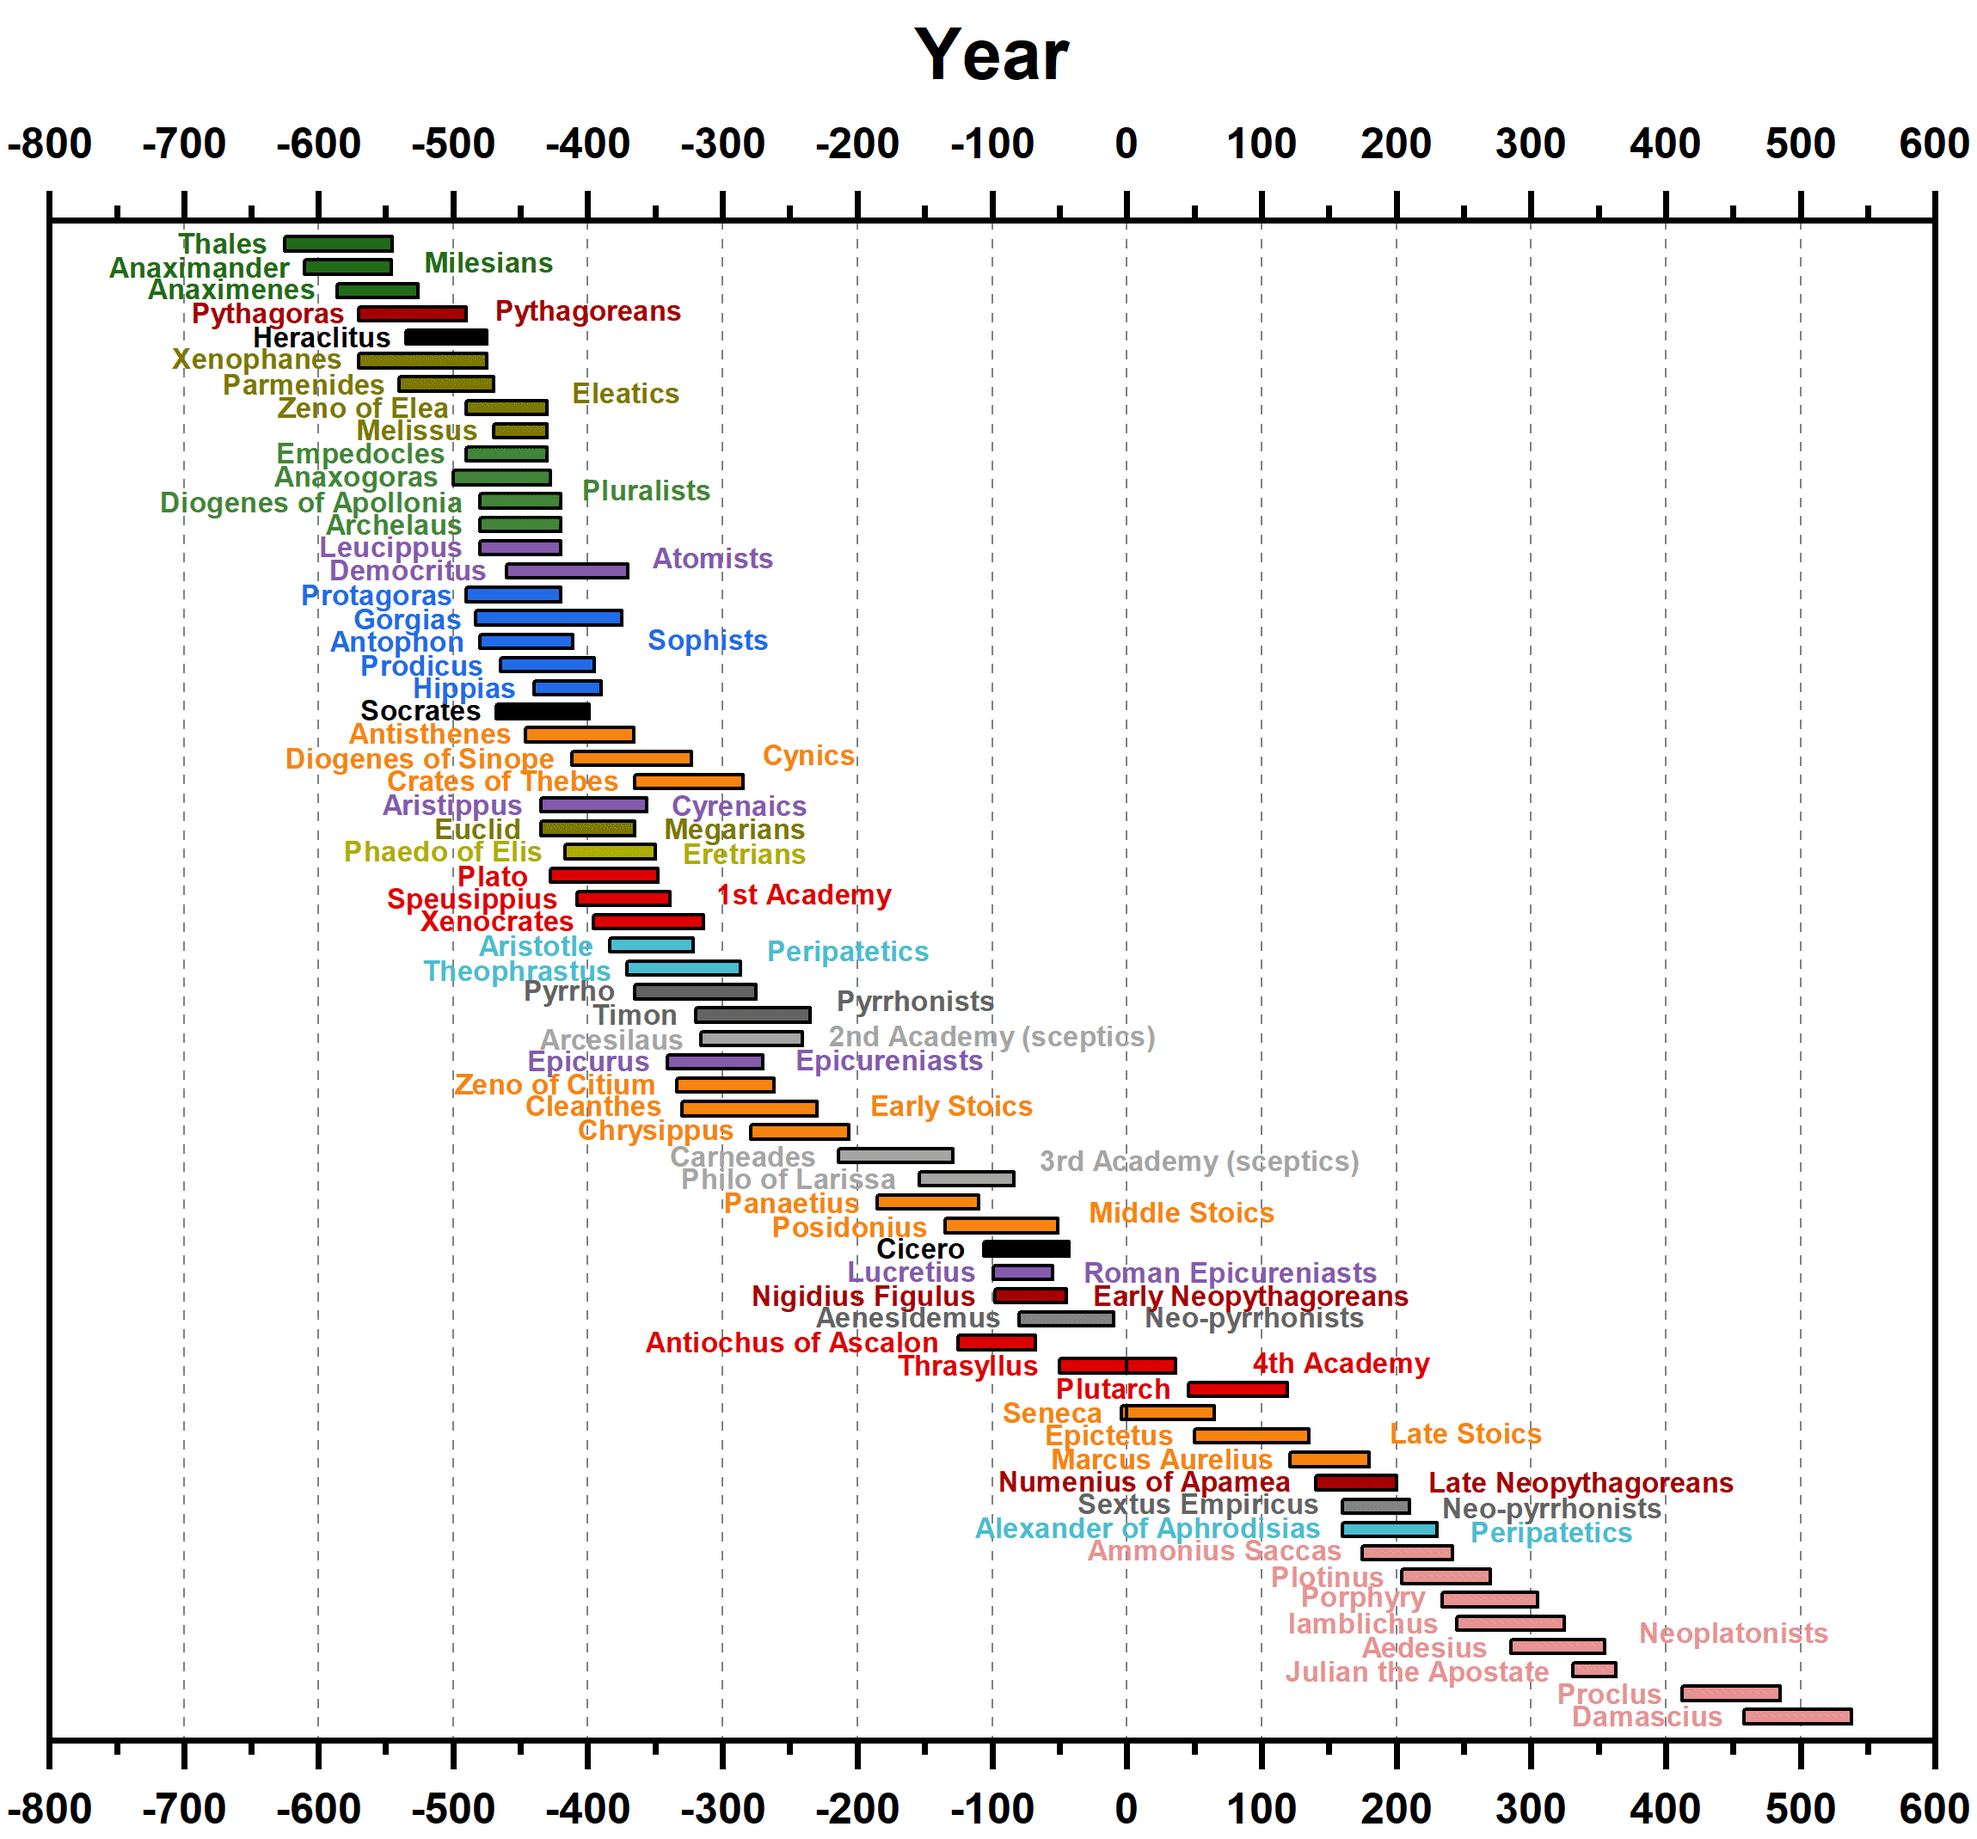
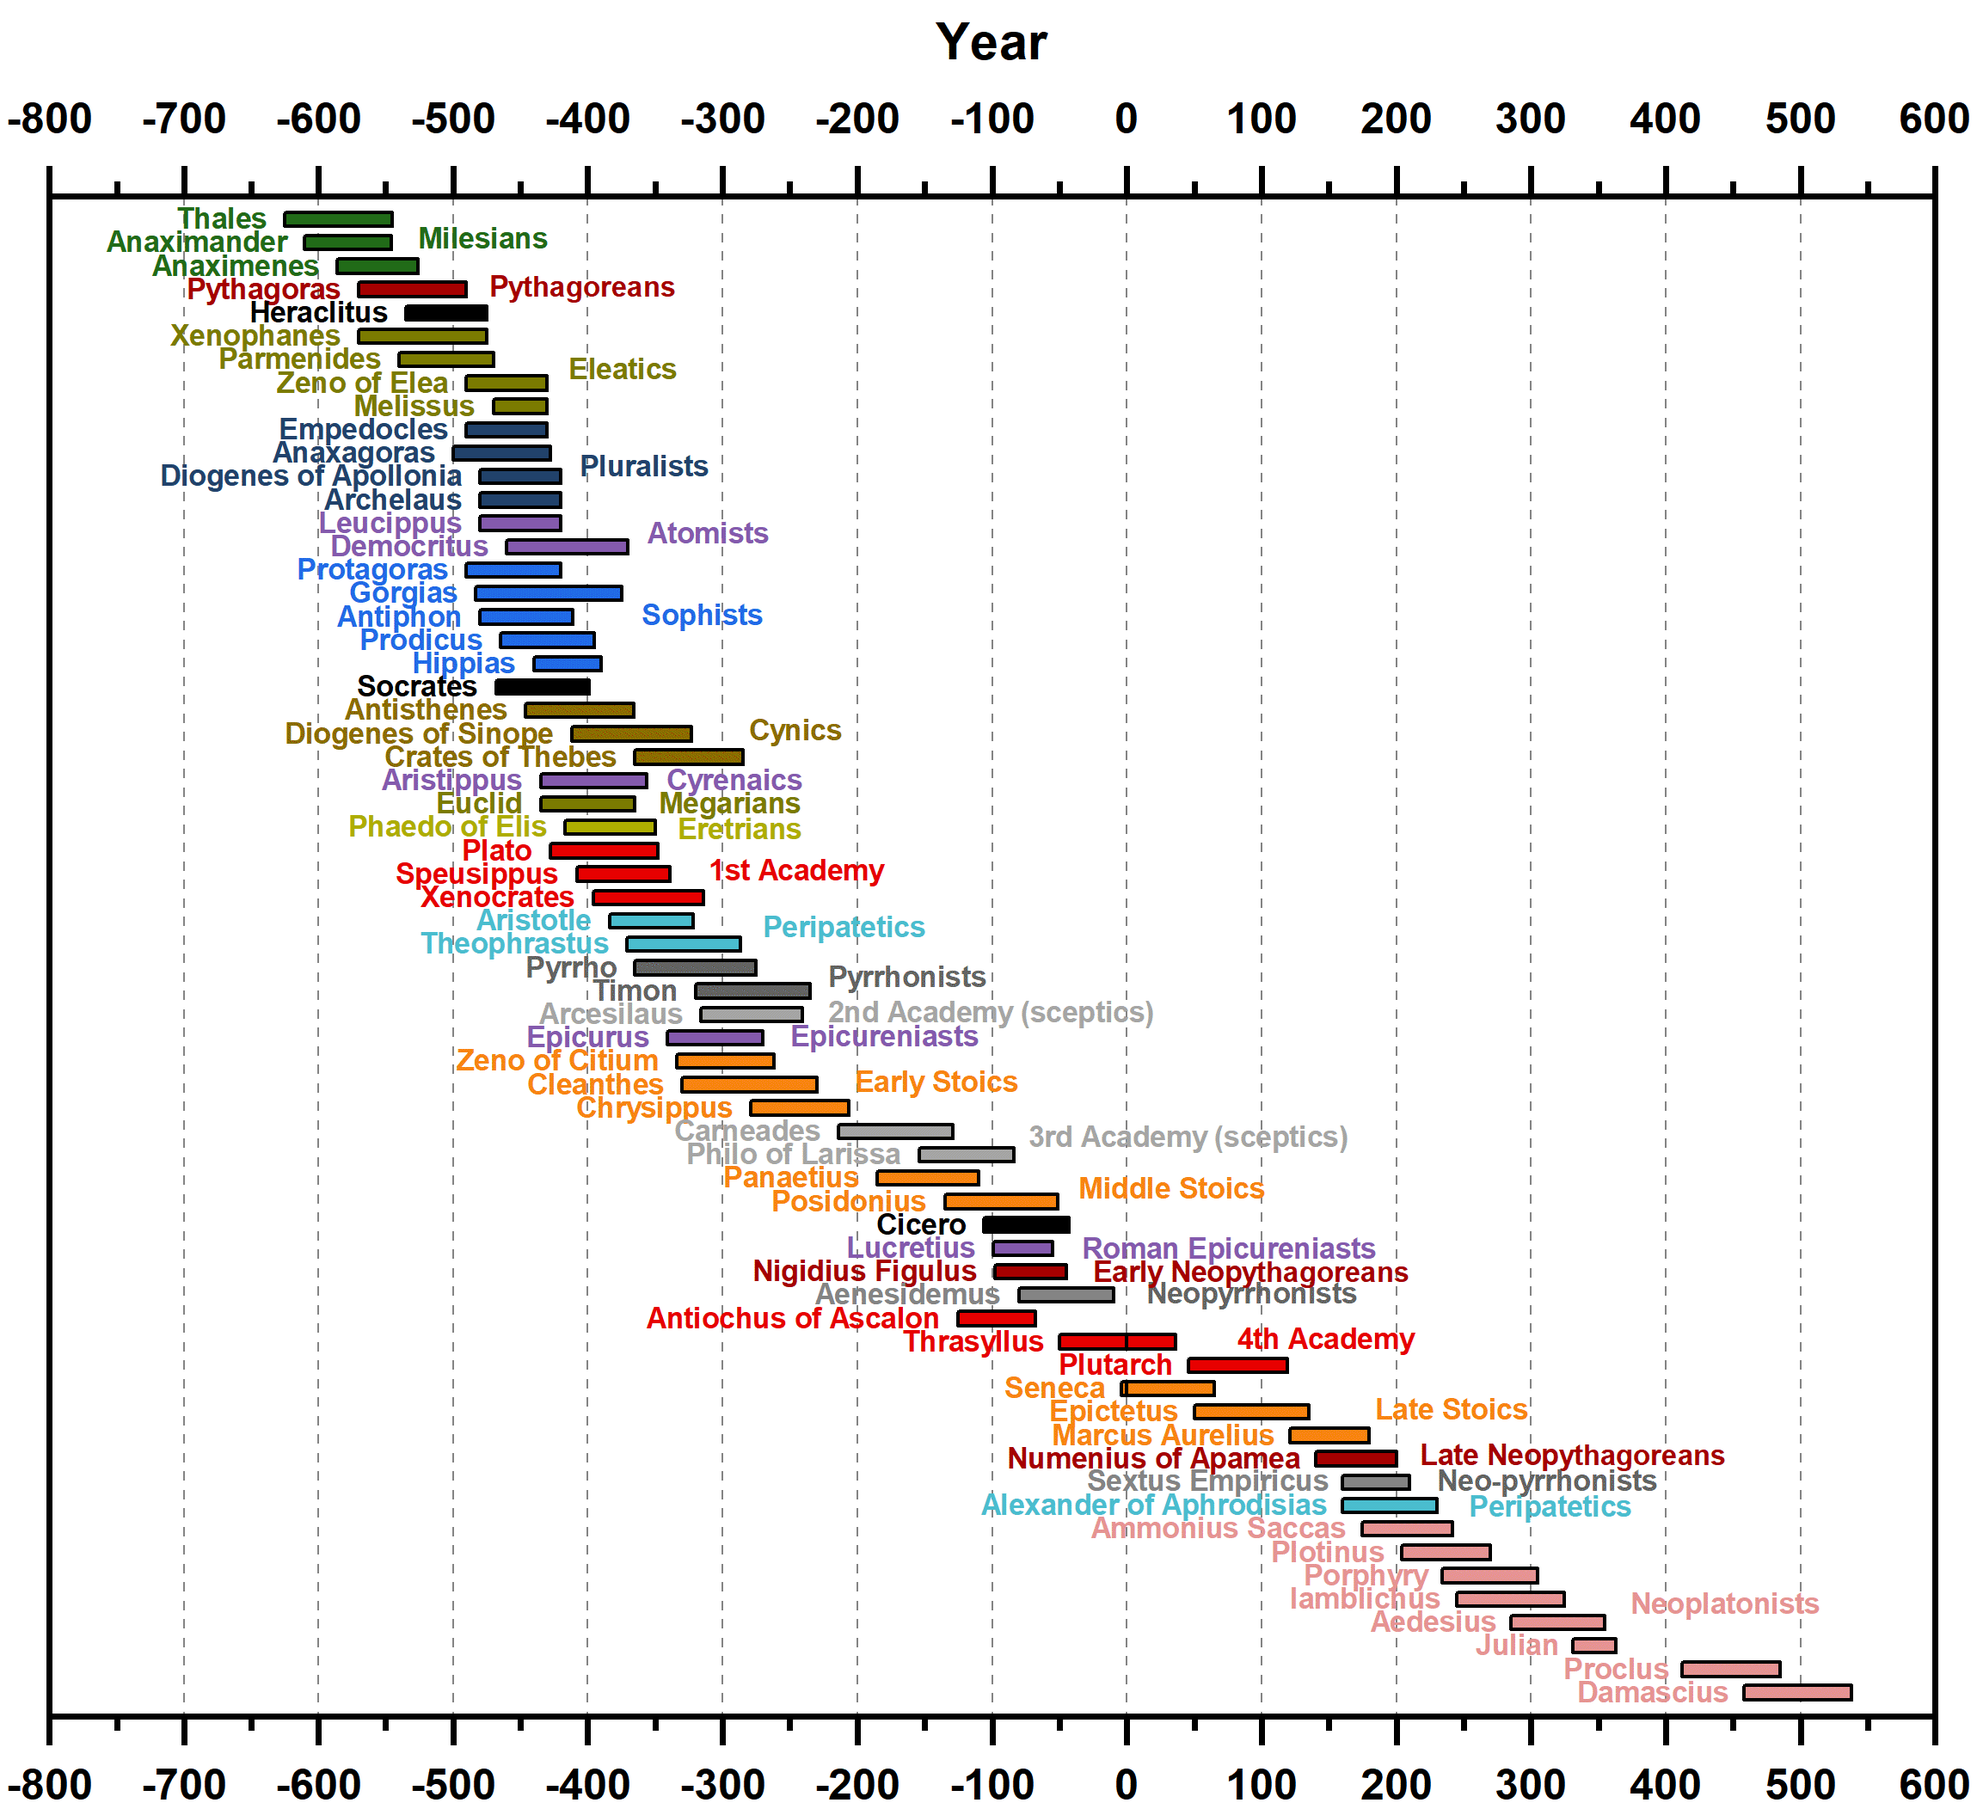
Added Medieval philosophy

Changed region(s): [[0.0, 0.0, 1.0, 0.9545]]

diff --git a/_pages/philosophy.md b/_pages/philosophy.md
@@ -14,10 +14,14 @@ on a timeline. On the one hand, it automatically provides a more-or-less ordered
 ideas based on names, and on the other hand, it creates an important feeling of relativity, puts the dates in context,
 reminding you that some philosophers from the "same" period were as far away from each other as the French Revolution is from us.
 
-<p style="color:#888888;"><i>Note: some dates are only approximate, and the categorization is mostly for my own convenience, not always based on the shared school of thought.</i></p>
+<p style="color:#888888;"><i>Note: some dates are only approximate, and the categorization is mostly for my own convenience and the ease of learning, not always based on the shared school of thought.</i></p>
 
 <h2>Ancient philosophy</h2>
 
 <img src="/images/philosophy_ancient.png">
 
-<p style="color:#888888;"><i>Coming soon: Medieval, Renaissance, Modern, and Contemporary philosophy. Hopefully, Chinese philosophy too.</i></p>
+<h2>Medieval philosophy</h2>
+
+<img src="/images/philosophy_medieval.png">
+
+<p style="color:#888888;"><i>Coming soon: Renaissance, Modern, and Contemporary philosophy. Hopefully, Chinese philosophy too.</i></p>
